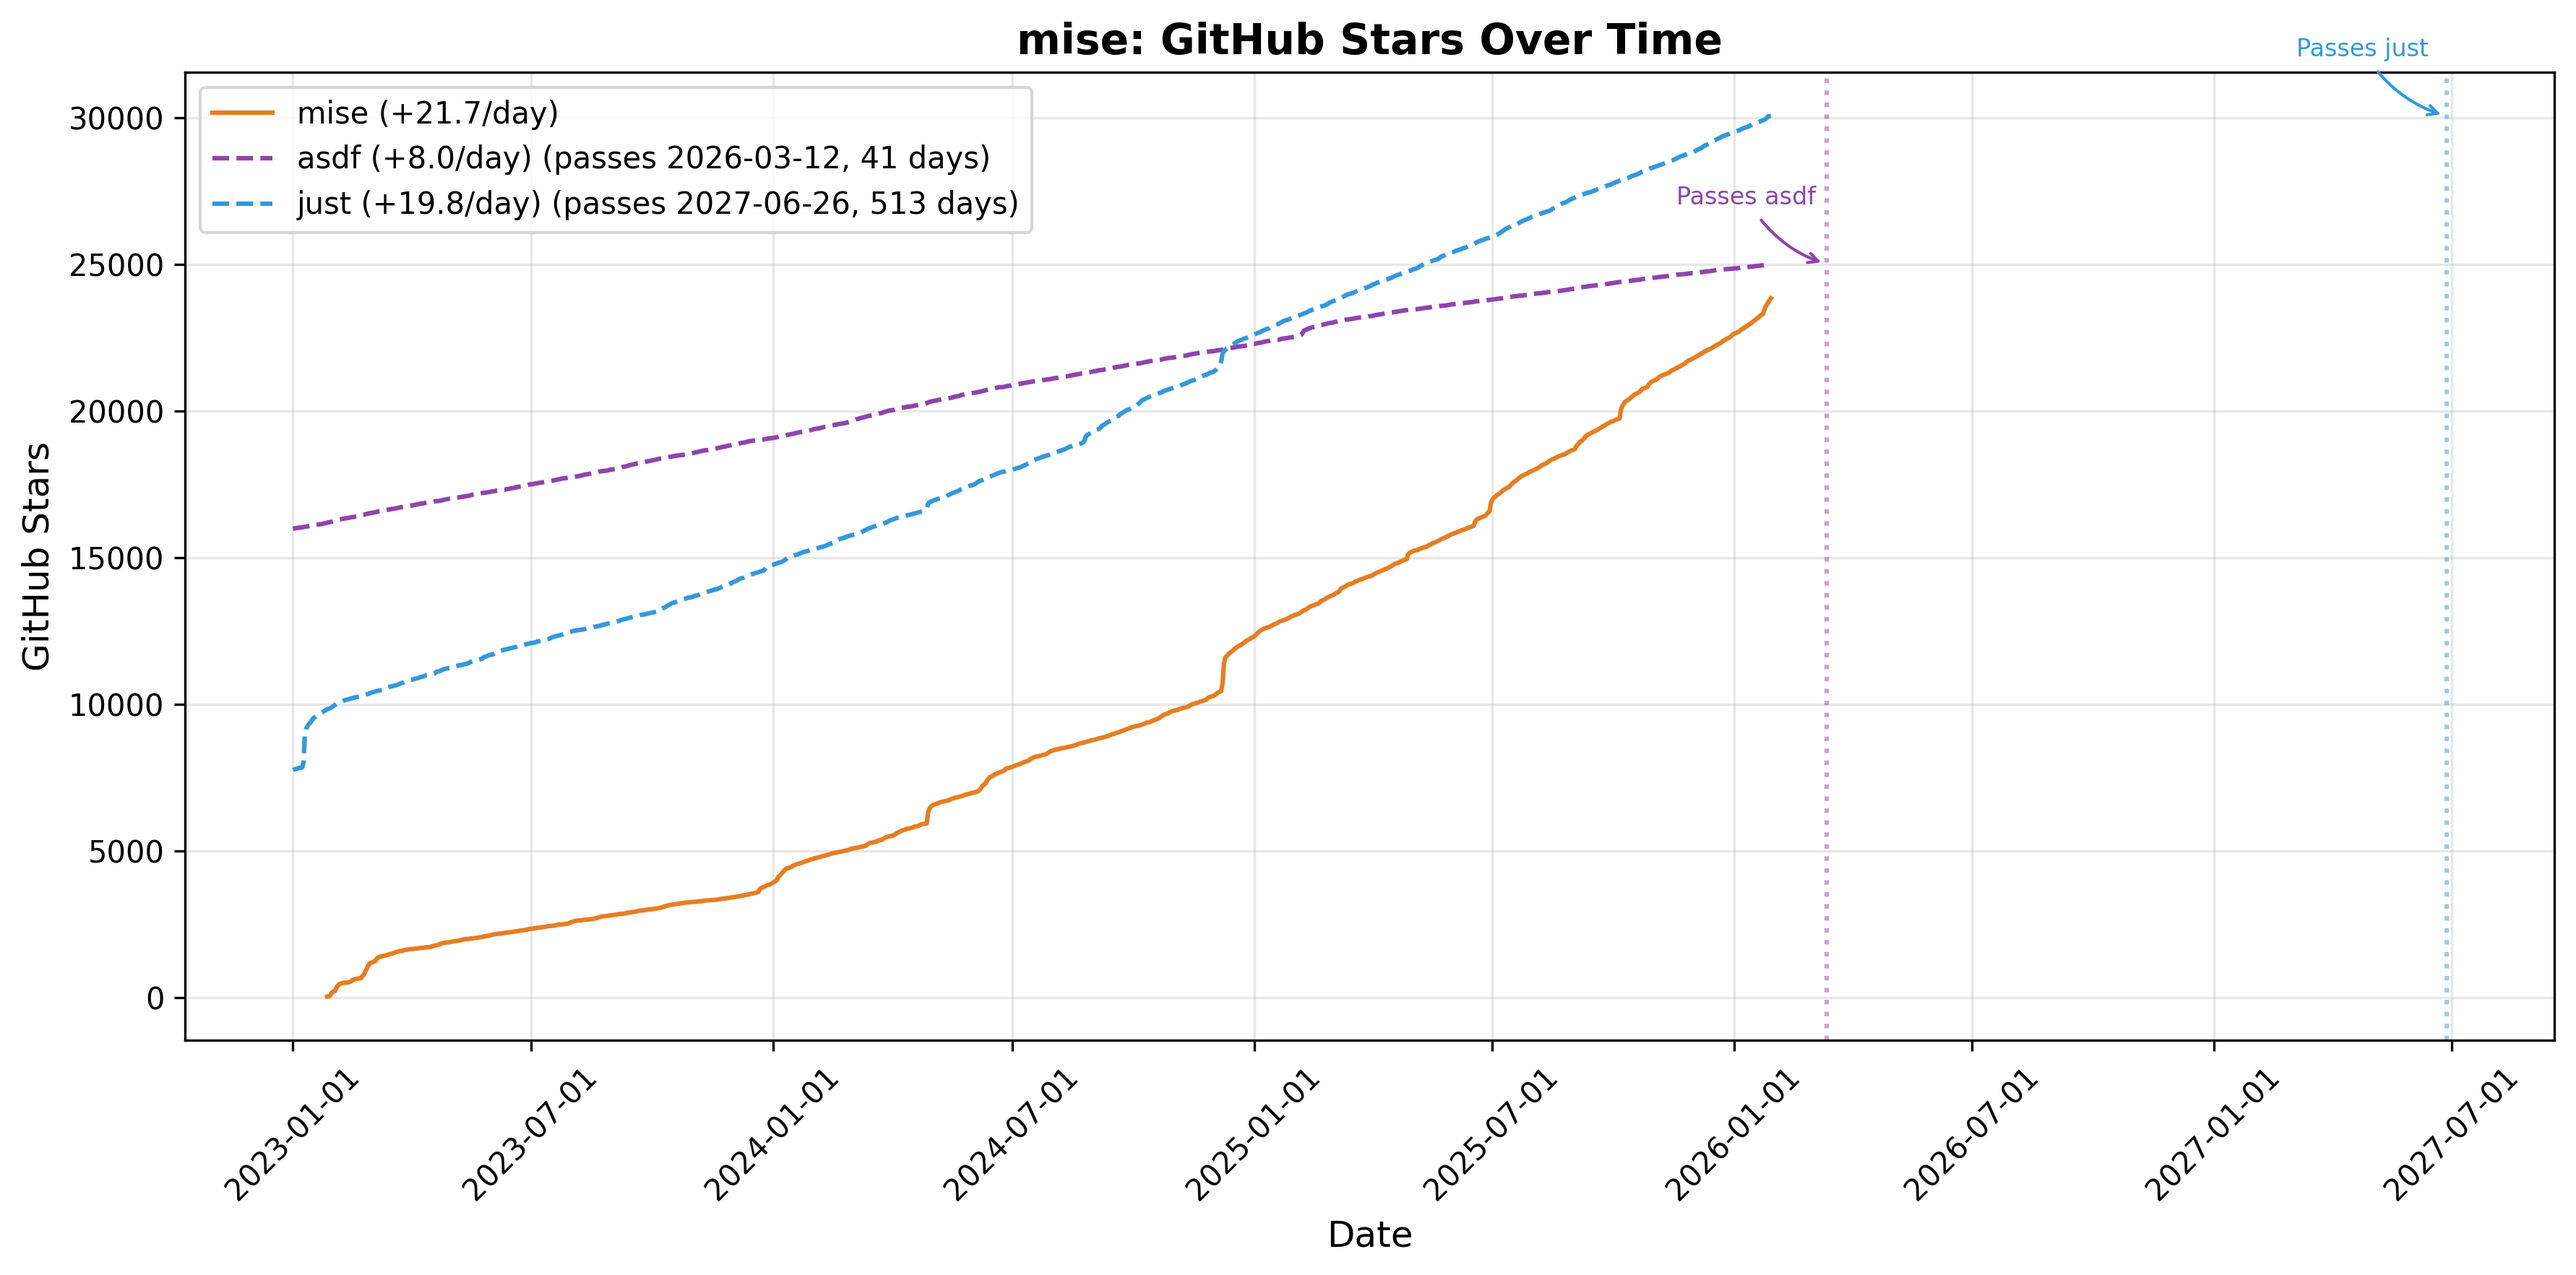
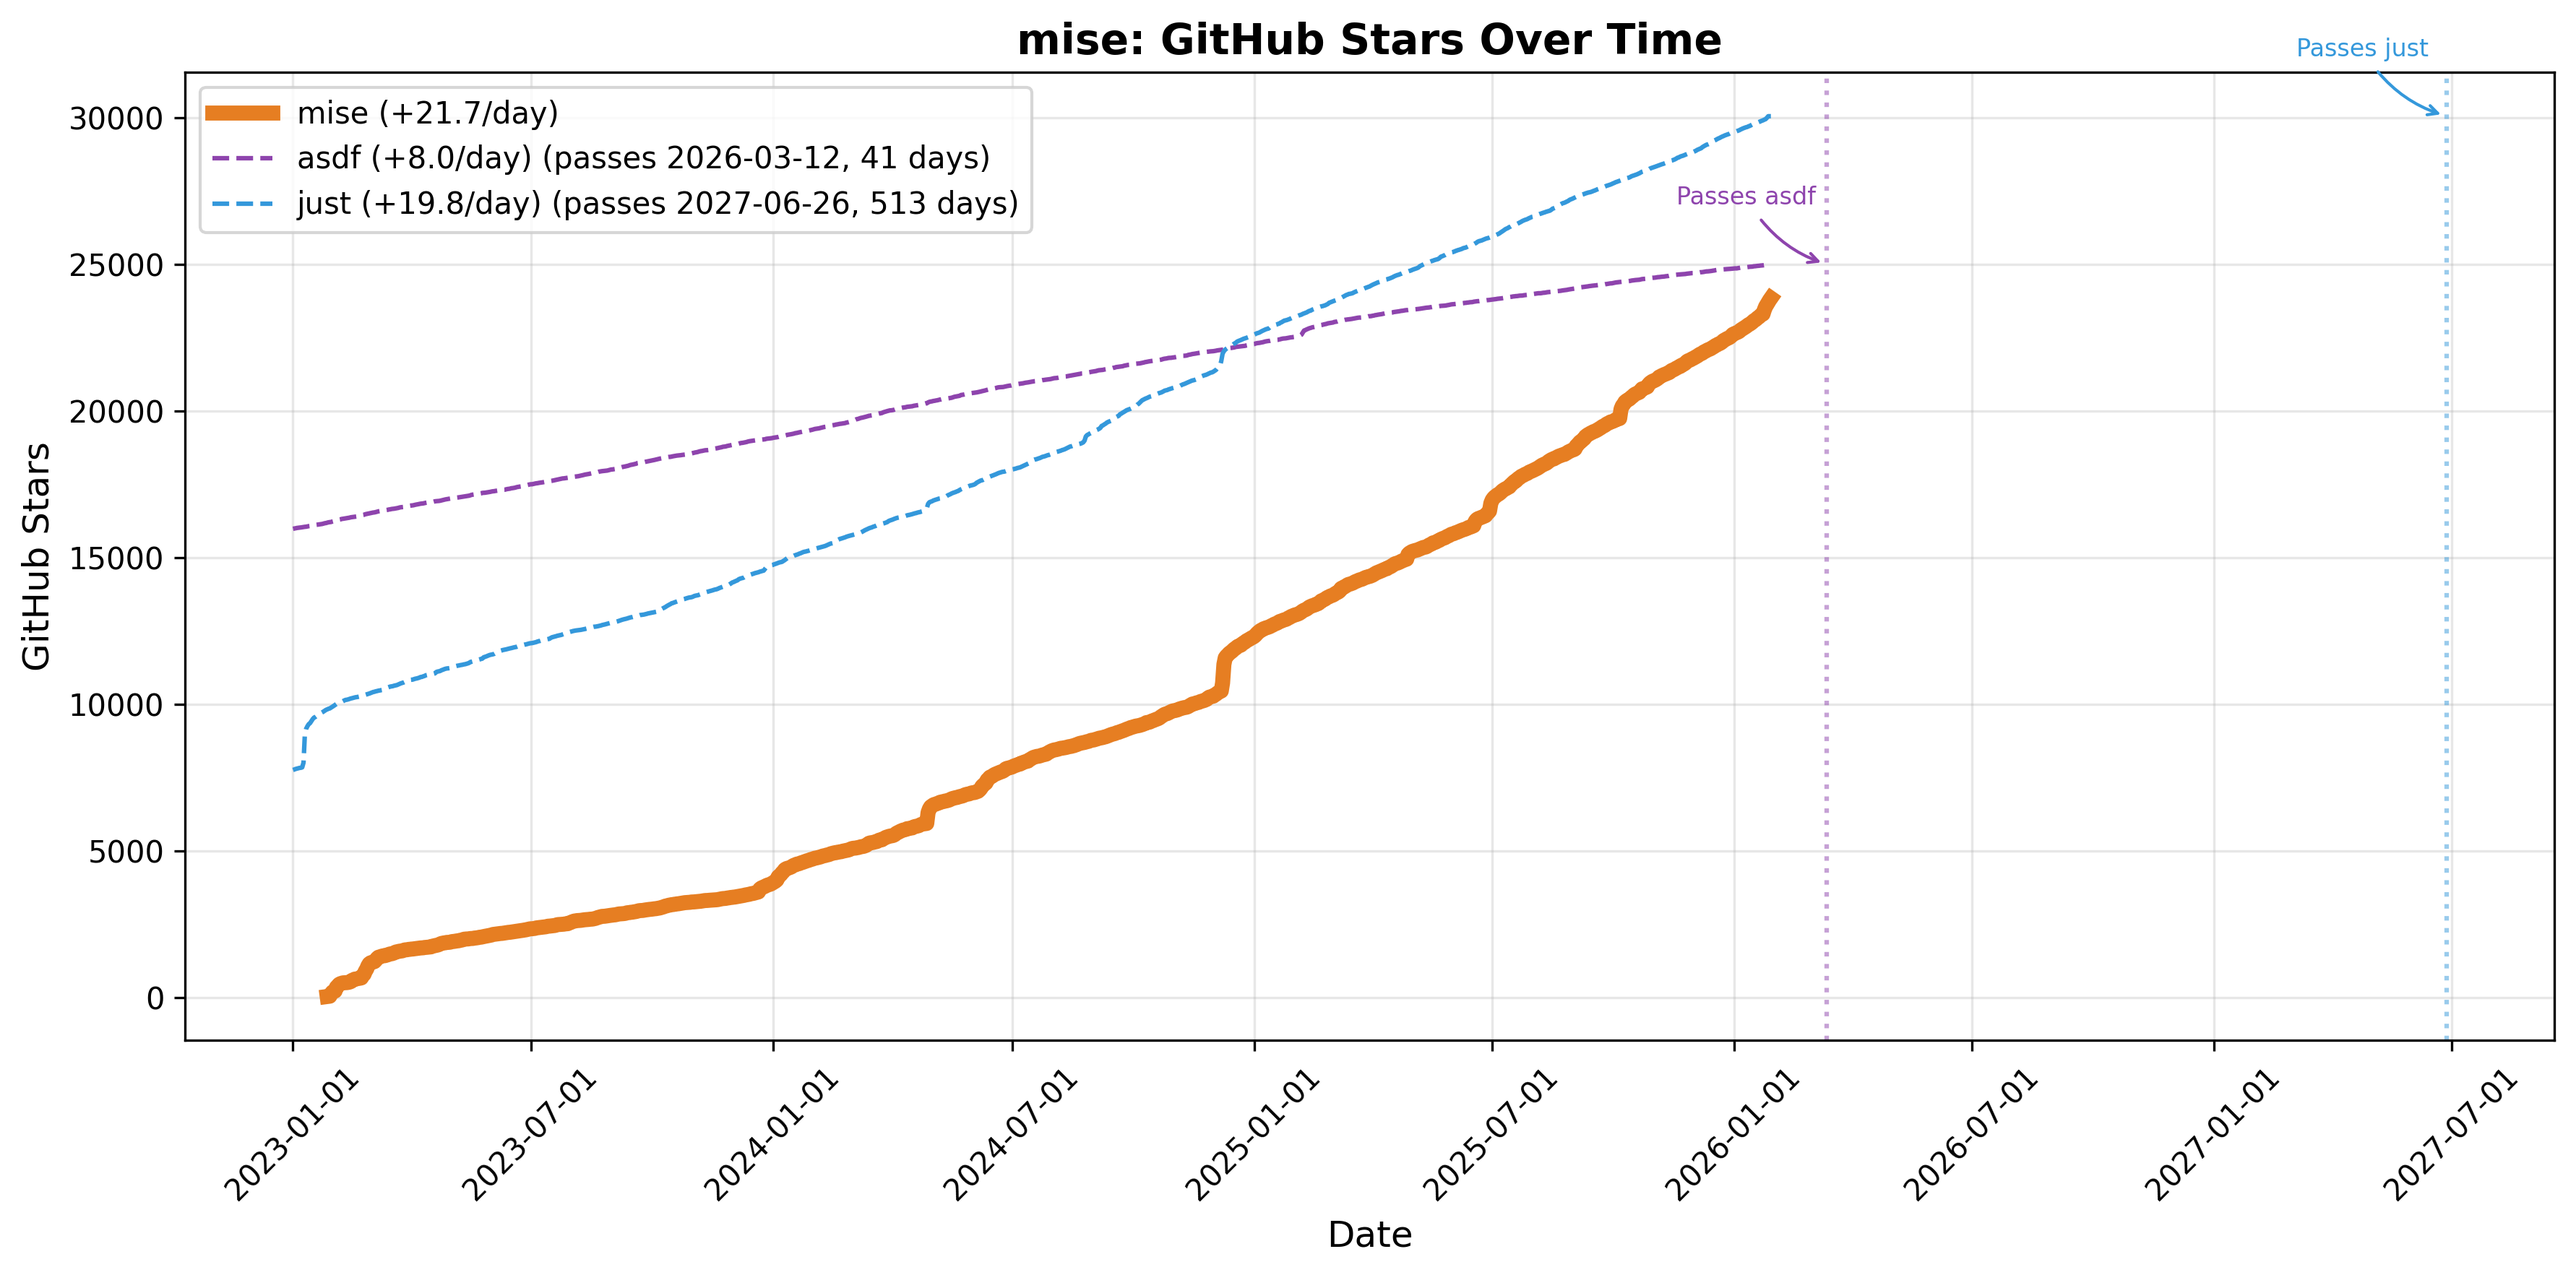
make jdx project lines thicker in competitor charts

diff --git a/mise-tasks/plot-fnox-stats.py b/mise-tasks/plot-fnox-stats.py
@@ -55,6 +55,7 @@ line2 = ax.plot(
     df_comp[df_comp['fnox_stars'] > 0]['date'],
     df_comp[df_comp['fnox_stars'] > 0]['fnox_stars'],
     color=color2,
+    linewidth=5,
     label=f'fnox (+{fnox_avg:.1f}/day)'
 )
 

diff --git a/mise-tasks/plot-hk-stats.py b/mise-tasks/plot-hk-stats.py
@@ -44,6 +44,7 @@ line2 = ax.plot(
     df_comp[df_comp['hk_stars'] > 0]['date'],
     df_comp[df_comp['hk_stars'] > 0]['hk_stars'],
     color=color2,
+    linewidth=5,
     label=f'hk (+{hk_avg:.1f}/day)'
 )
 

diff --git a/mise-tasks/plot-stats.py b/mise-tasks/plot-stats.py
@@ -65,6 +65,7 @@ line2 = ax.plot(
     df['date'],
     df['github_stars'],
     color=color2,
+    linewidth=5,
     label=f'mise (+{mise_avg:.1f}/day)'
 )
 
